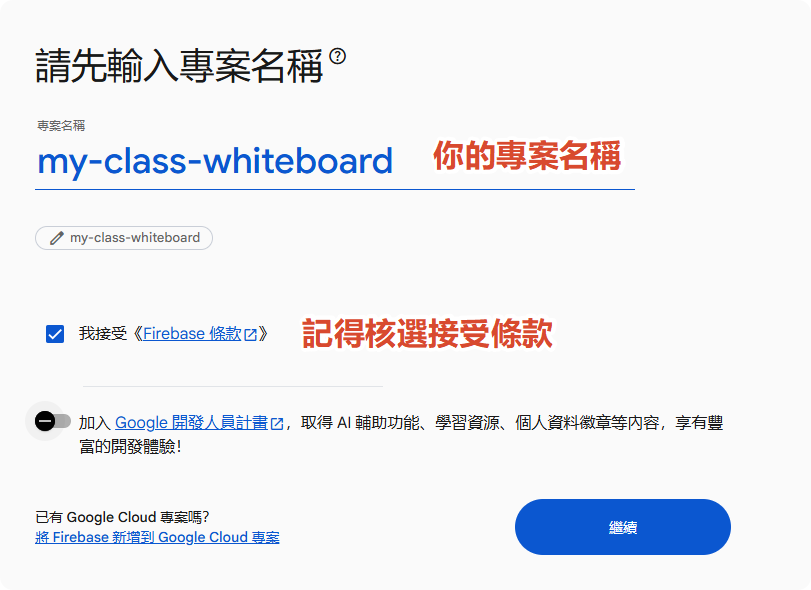
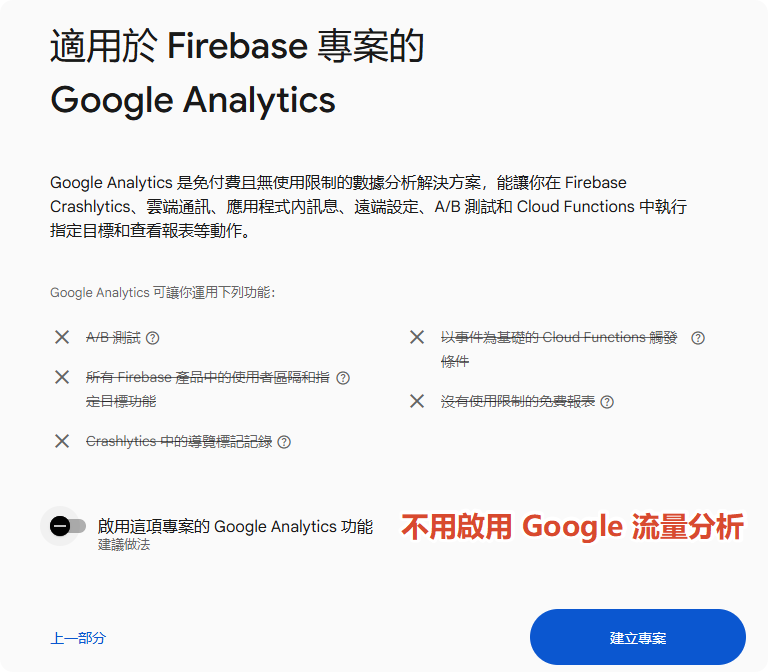
Feat: Replace the third and fourth images under step 1-2 with newly uploaded files (ver 1.9.1)

diff --git a/index.html b/index.html
@@ -18,7 +18,7 @@
         </div>
         <p class="header-subtitle" style="display: flex; align-items: center; gap: 8px; flex-wrap: wrap;">
           <span>課堂互動、提問、測驗、分享</span>
-          <span id="appVersionBadge" class="app-version-badge" style="color: #ff3b30; font-weight: bold; font-size: 14px; display: inline-flex; align-items: center; margin-left: 4px; text-shadow: 0 1px 2px rgba(255,59,48,0.15);">ver 1.9.0</span>
+          <span id="appVersionBadge" class="app-version-badge" style="color: #ff3b30; font-weight: bold; font-size: 14px; display: inline-flex; align-items: center; margin-left: 4px; text-shadow: 0 1px 2px rgba(255,59,48,0.15);">ver 1.9.1</span>
         </p>
       </div>
       <div class="top-actions">
@@ -917,8 +917,8 @@ Python</pre>
   
   <script src="js/firebase-config.js?v=151"></script>
   <script src="js/character_pool.js?v=151"></script>
-  <script src="js/quiz.js?v=190"></script>
-  <script src="js/app.js?v=190"></script>
+  <script src="js/quiz.js?v=191"></script>
+  <script src="js/app.js?v=191"></script>
   
   <!-- 問題彈出視窗 -->
   <div id="questionModal" class="modal-overlay question-modal">

diff --git a/js/app.js b/js/app.js
@@ -12,7 +12,7 @@ class App {
     this.dragStart = { x: 0, y: 0 };
     this.imagePos = { x: 0, y: 0 };
     
-    this.APP_VERSION = '1.9.0';
+    this.APP_VERSION = '1.9.1';
     // 初始化狀態快取
     this.questions = [];
     this.images = [];

diff --git a/SYSTEM_LOG.md b/SYSTEM_LOG.md
@@ -506,6 +506,14 @@
   2. 將左上角與 `js/app.js` 中的全站版本號遞增為 `ver 1.9.0`。
   3. 將 `index.html` 的 `app.js` 與 `quiz.js` Query 版本升級為 `?v=190`。
 - 影響檔案：`images/guide/step02.png`, `index.html`, `js/app.js`, `SYSTEM_LOG.md`。
+## 2026-07-26 - Antigravity
+- 修改項目：根據使用者最新上傳與指定的截圖，重新替換步驟 1 第 2 點的第三、四張圖為最新的附圖 1、2，並遞增版本為 `ver 1.9.1`。
+- 行為：
+  1. 將使用者最新上傳的 AI 輔助功能示意圖（附圖 1）覆蓋至 `images/guide/step03.png`。
+  2. 將使用者最新上傳的 Google Analytics 示意圖（附圖 2）覆蓋至 `images/guide/step04.png`。
+  3. 將左上角與 `js/app.js` 中的全站版本號遞增為 `ver 1.9.1`。
+  4. 將 `index.html` 的 `app.js` 與 `quiz.js` Query 版本升級為 `?v=191`。
+- 影響檔案：`images/guide/step03.png`, `images/guide/step04.png`, `index.html`, `js/app.js`, `SYSTEM_LOG.md`。
 - 修改項目：優化行動端白板 UI 佈局，解決選單重疊跑版與 `^` 箭頭顯示 Bug（方案 A 實作）。
 - 行為：
   1. 移除 `whiteboard.html` 中對 `.tlui-layout__bottom` 及工具列按鈕尺寸的所有暴力 CSS `!important` 覆寫，完整回歸 tldraw 原生 React 佈局與錨點計算。
